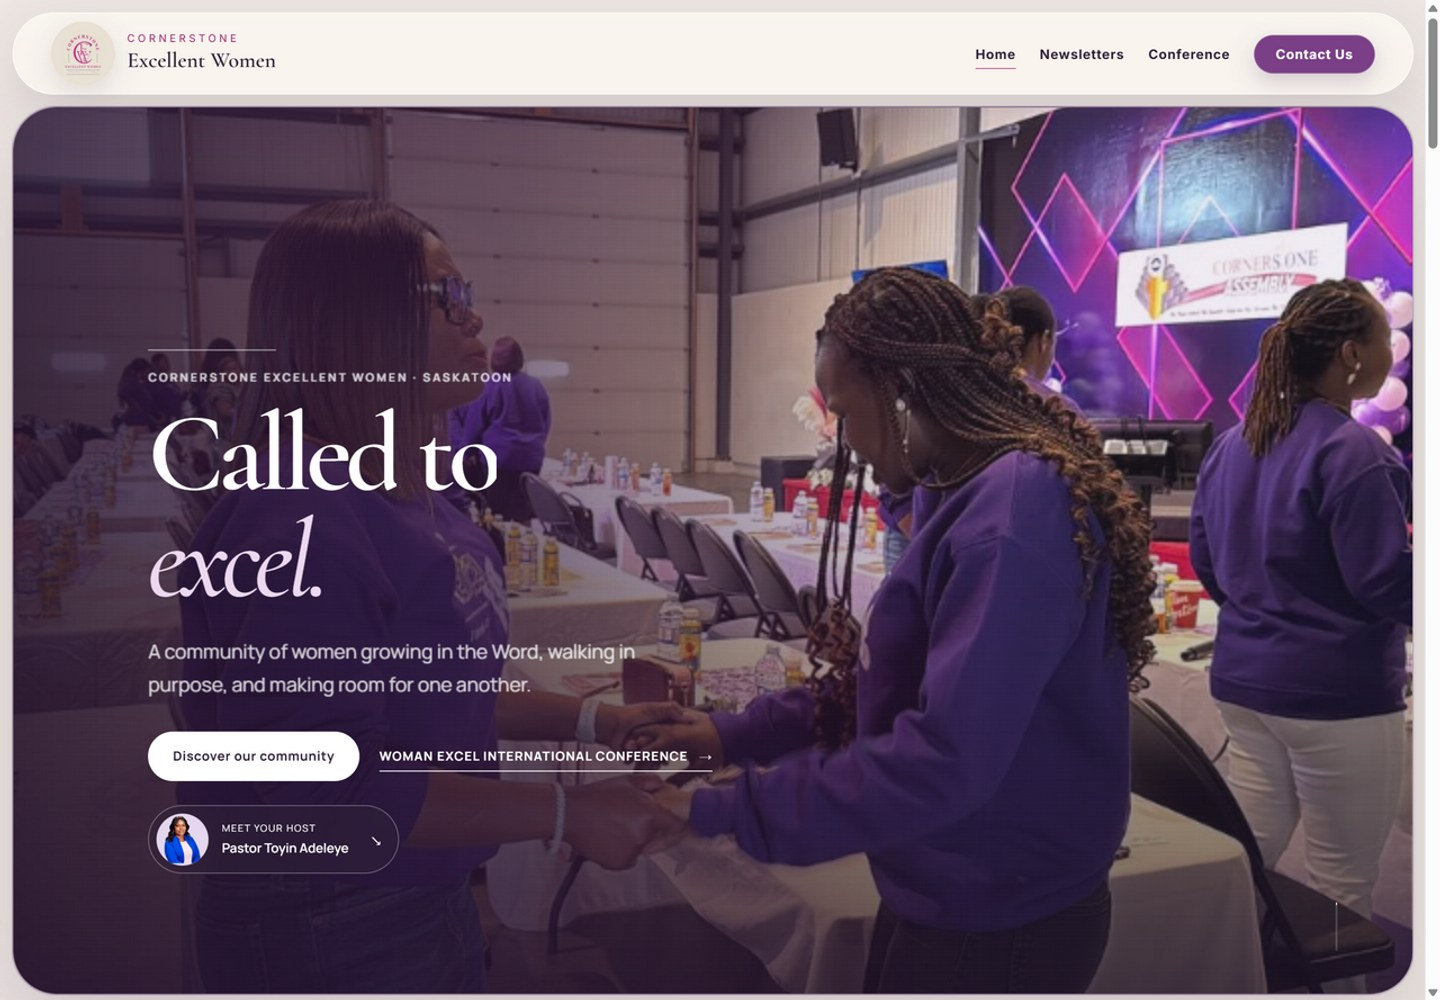
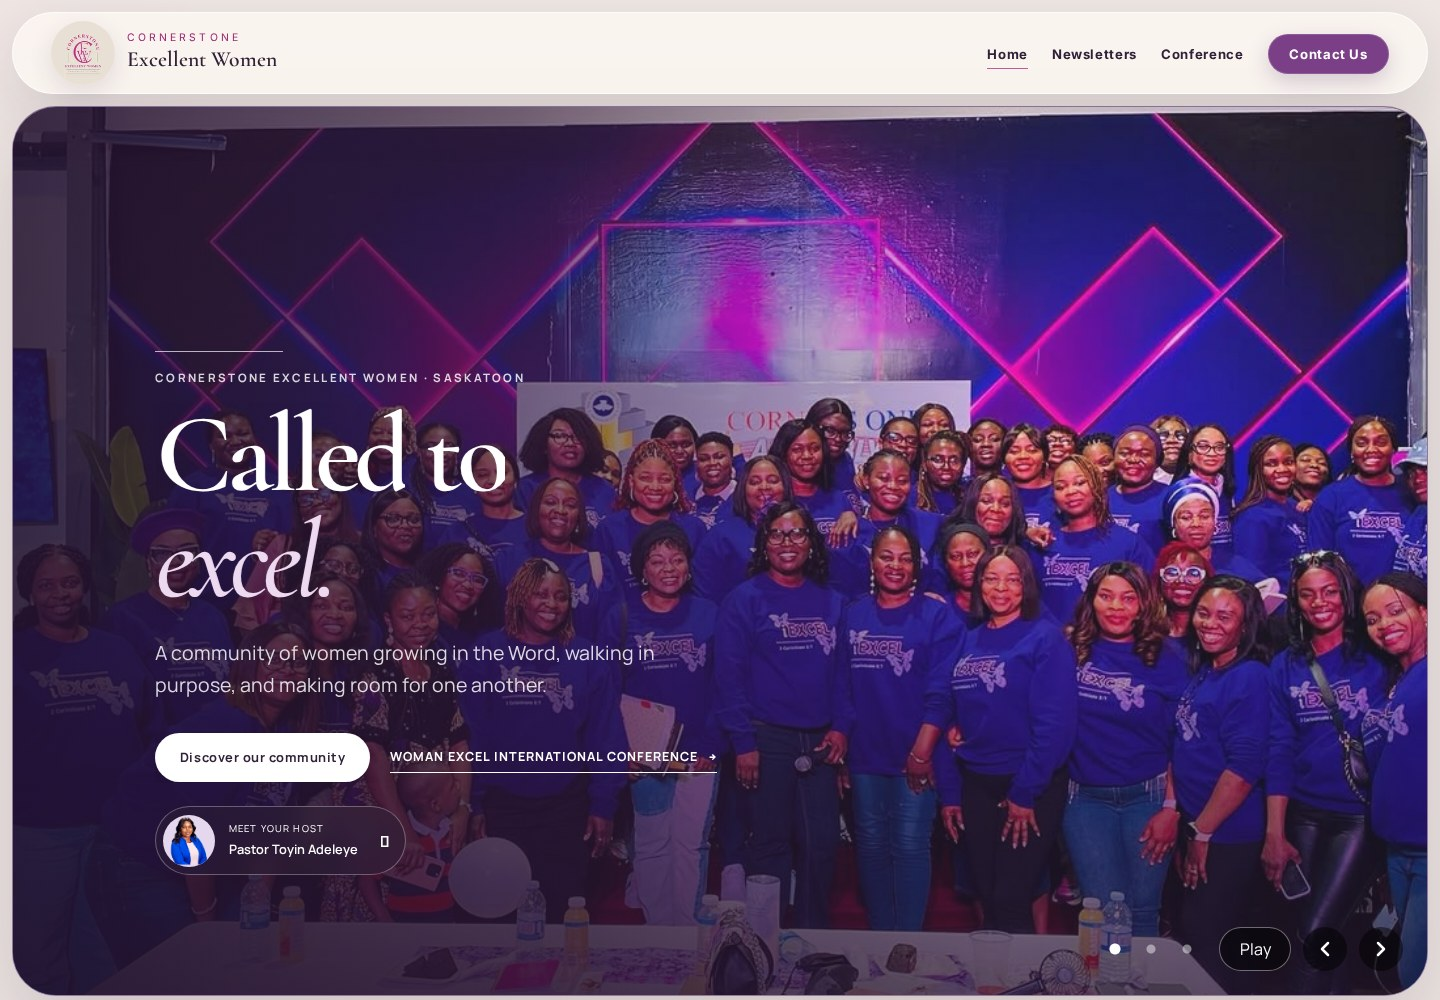
Welcome visitors with a group photo carousel

diff --git a/apps/womanexcel/src/styles/global.css b/apps/womanexcel/src/styles/global.css
@@ -3889,6 +3889,87 @@ html { overflow-x: clip; }
     --slideshow-control-bg-hover: rgb(8 42 78 / 90%);
 }
 
+/* Keep the framed welcome, with actual group photos and visible controls. */
+.slideshow.cew-community-carousel > .overlay {
+    display: flex;
+    width: 100%;
+    min-height: inherit;
+    align-items: flex-end;
+}
+
+.slideshow.cew-community-carousel .arrow {
+    top: auto;
+    bottom: 1.5rem;
+    width: 2.75rem;
+    height: 2.75rem;
+    opacity: 1;
+    transform: none;
+}
+
+.slideshow.cew-community-carousel .previous { left: auto; right: 5rem; }
+.slideshow.cew-community-carousel .next { right: 1.5rem; }
+.slideshow.cew-community-carousel .playback { right: 8.5rem; bottom: 1.5rem; }
+.slideshow.cew-community-carousel .dots {
+    right: 14rem;
+    bottom: 1.5rem;
+    left: auto;
+    align-items: center;
+    height: 2.75rem;
+    gap: .25rem;
+    opacity: 1;
+}
+
+.slideshow.cew-community-carousel[data-shared-slideshow] [data-dot] {
+    width: 2rem;
+    height: 2.75rem;
+    background: radial-gradient(circle, rgb(255 255 255 / 45%) 0 4px, transparent 5px);
+}
+
+.slideshow.cew-community-carousel[data-shared-slideshow] [data-dot][aria-current="true"],
+.slideshow.cew-community-carousel[data-shared-slideshow] [data-dot]:hover {
+    background: radial-gradient(circle, white 0 5px, transparent 6px);
+}
+
+.cew-community-carousel .scroll-cue,
+.cew-community-carousel .cew-scroll-cue { display: none; }
+
+@media (max-width: 760px) {
+    .cew-community-carousel {
+        --community-photo-height: clamp(14rem, 75vw, 32rem);
+    }
+
+    .slideshow.cew-community-carousel > .slides {
+        height: var(--community-photo-height);
+    }
+
+    .slideshow.cew-community-carousel > .overlay {
+        padding-top: calc(var(--community-photo-height) - 2rem);
+    }
+
+    .cew-community-carousel .cew-cinematic-hero__wash {
+        background: linear-gradient(to bottom, transparent 0, transparent calc(var(--community-photo-height) - 7rem), var(--cew-violet-deep) var(--community-photo-height));
+    }
+
+    .cew-community-carousel .cew-cinematic-hero__content {
+        padding-top: 2.5rem;
+        padding-bottom: 3rem;
+    }
+
+    .slideshow.cew-community-carousel .dots { left: 1rem; right: auto; }
+    .slideshow.cew-community-carousel .previous { right: 4.25rem; }
+    .slideshow.cew-community-carousel .next { right: 1rem; }
+    .slideshow.cew-community-carousel .playback { right: 7.5rem; min-width: 4rem; }
+
+    .slideshow.cew-community-carousel :is(.arrow, .dots, .playback) {
+        top: calc(var(--community-photo-height) - 3.5rem);
+        bottom: auto;
+    }
+}
+
+@media (max-width: 360px) {
+    .slideshow.cew-community-carousel[data-shared-slideshow] [data-dot] { width: 1.5rem; }
+}
+
 /* Fellowship hero slideshow. The shared component always renders arrows
    alongside the dots; this hero is dots-only, so the arrows are hidden here
    rather than adding a prop upstream. They stay in the DOM and focusable, so

diff --git a/docs/womanexcel-redesign-evaluation/README.md b/docs/womanexcel-redesign-evaluation/README.md
@@ -2,9 +2,11 @@
 
 These captures are included for design evaluation only. They are not a final design approval.
 
-The framed design was captured through the T3 Code collaborative preview using the connected Sanity development dataset on October 1, 2026. Newsletter screenshots therefore reflect the current development content, including test copy and imagery.
+The framed design was captured through the T3 Code collaborative preview using the connected Sanity development dataset on October 1, 2026. The homepage captures were refreshed in local Chromium after the shared preview disconnected during the final carousel checks. Newsletter screenshots therefore reflect the current development content, including test copy and imagery.
 
 The screenshots show the settled state of the entrance animations. Motion, hover, scroll, and marquee behavior should be evaluated in the browser preview.
+
+The homepage opens with three supplied group photos, crossfading every three seconds. The captures pause on the opening group shot. Previous/next, image selectors, and a persistent pause/play control are available; reduced-motion preference disables autoplay. On phones, the photo sits above the copy so the group remains visible. The separate “Who we are” gathering photo is unchanged.
 
 ## Viewports
 
